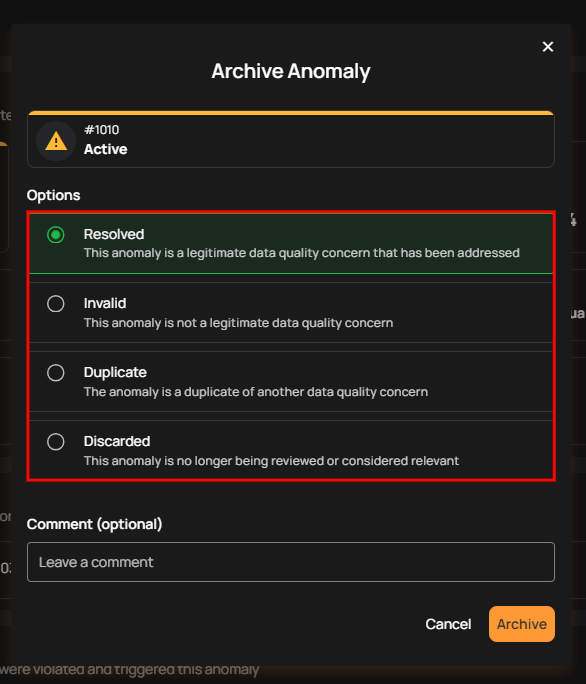
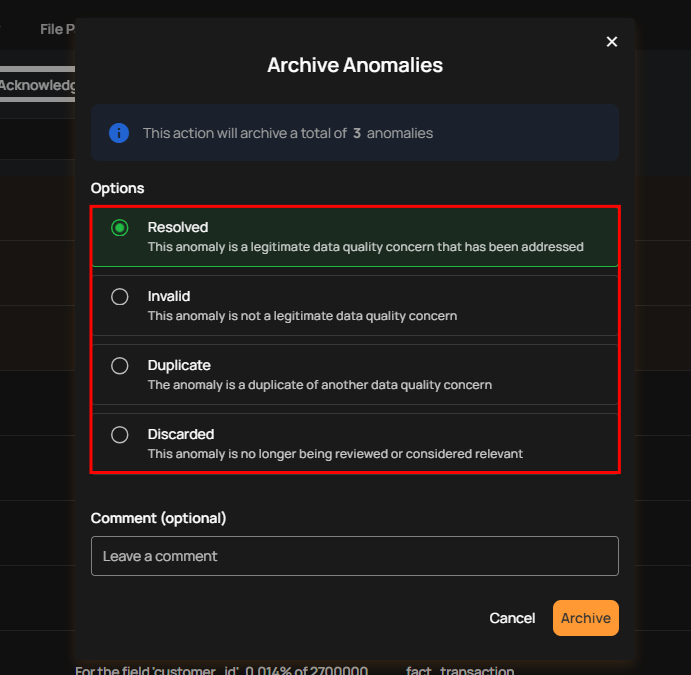
QUA-1374: Update "Archive Anomalies" userguide.

diff --git a/docs/anomalies/archive-anomalies.md b/docs/anomalies/archive-anomalies.md
@@ -10,7 +10,7 @@ You can archive individual anomalies either directly or through the action menu.
 
 **Step 1:** Locate the anomaly (whether Active or Acknowledged) you want to archive.
 
-![archive-directly](../assets/datastores/archive-anomalies/archive-directly.png)
+![archive-action](../assets/datastores/archive-anomalies/archive-action.png)
 
 **Step 2:** Click on the **vertical ellipsis (⋮)** located on the right side of the anomaly and select **“Archive”** from the dropdown menu.
 
@@ -33,7 +33,7 @@ You also have the option to leave a comment in the provided field to provide add
 
 ![archive-button](../assets/datastores/archive-anomalies/archive-button.png)
 
-After clicking on the **Archive** button your anomaly is moved to the archive and a confirmation message appears on the screen.
+After clicking on the **Archive** button, your anomaly is moved to the archive and a confirmation message appears on the screen.
 
 ### 2. Archive via Action Menu
 
@@ -62,7 +62,7 @@ You also have the option to leave a comment in the provided field to provide add
 
 ![archive-button-2](../assets/datastores/archive-anomalies/archive-button.png)
 
-After clicking on the **Archive** button your anomaly is moved to the archive and a confirmation message appears on the screen.
+After clicking on the **Archive** button, your anomaly is moved to the archive and a confirmation message appears on the screen.
 
 ## Archive Anomalies in Bulk
 
@@ -97,4 +97,4 @@ You also have the option to leave a comment in the provided field to provide add
 
 ![archive-button-2](../assets/datastores/archive-anomalies/archive-button-3.png)
 
-After clicking on the **Archive** button your anomaly is moved to the archive and a confirmation message appears on the screen.
+After clicking on the **Archive** button, your anomaly is moved to the archive and a confirmation message appears on the screen.

diff --git a/docs/anomalies/delete-anomalies.md b/docs/anomalies/delete-anomalies.md
@@ -52,7 +52,7 @@ For more efficient management, you can delete multiple anomalies at once using t
 
 ![bulk-delete](../assets/datastores/delete-anomalies/bulk-delete.png)
 
-When multiple checks are selected, an action toolbar appears, displaying the total number of checks chosen along with a vertical ellipsis for additional bulk action options.
+When multiple anomalies are selected, an action toolbar appears, displaying the total number of anomalies chosen along with a vertical ellipsis for additional bulk action options.
 
 ![bulk-delete-options](../assets/datastores/delete-anomalies/bulk-delete-options.png)
 
